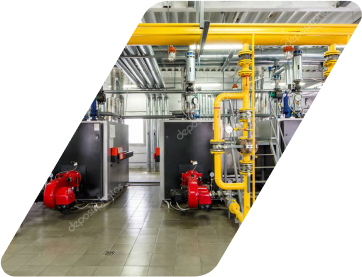
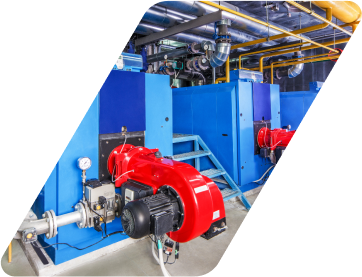
Slides

diff --git a/style.css b/style.css
@@ -4,7 +4,7 @@ Theme URI: https://gazerzekelo.hu
 Author: David Csere
 Author URI: https://thelongerway.eu
 Description: Theme for Muszer Automatika Kft.
-Version: 1.3.3
+Version: 1.3.4
 Requires at least: 5.0
 Tested up to: 6.3
 Requires PHP: 7.4

diff --git a/applications-template.php b/applications-template.php
@@ -21,11 +21,37 @@ get_header();
 
             <section class="hero featured-img-section">
                 <div class="wrap-wide">
-                    <figure>
-                        <?php the_post_thumbnail('full', array('class' => 'full-img')); ?>
-                    </figure>
+                    <div class="owl-carousel owl-theme">
+                            <?php
+                            $args = array(
+                                'post_type' => 'slides',
+                                'posts_per_page' => -1,
+                                "tax_query" => array(
+                                    array(
+                                        "taxonomy" => "megjelenesi-helyek",
+                                        "field" => "slug",
+                                        "terms" => "foa"
+                                    )
+                                )
+                            );
+                            $slides = new WP_Query($args);
+                            if ($slides->have_posts()) :
+                                while ($slides->have_posts()) : $slides->the_post(); ?>
+                                    <?php if (has_post_thumbnail()) : ?>
+                                        <img src="<?php echo get_the_post_thumbnail_url(); ?>" alt="<?php the_title(); ?>" class="full-img">
+                                    <?php endif; ?>
+                                <?php endwhile;
+                                wp_reset_postdata();
+                            endif;
+                            ?>
+    
+                    </div>
+                    <div class="nav-dots">
+                        <div class="my-dots"></div>
+                        <div class="my-nav"></div>
+                    </div>                
                 </div>
-            </section>
+            </section> 
             <section class="content-section">
                 <div class="wrap">
                     <?php the_title( '<h1 class="entry-title">', '</h1>' ); ?>

diff --git a/functions.php b/functions.php
@@ -331,6 +331,27 @@ function ma_slides_post_type() {
 
 add_action('init', 'ma_slides_post_type');
 
+function ma_slides_tag() {
+    $labels = array(
+        'name'              => 'Megjelenési helyek',
+        'singular_name'     => 'Megjelenési hely',
+    );
+
+    $args = array(
+        'hierarchical'      => false, // Ha hamis, akkor címkéként viselkedik
+        'labels'            => $labels,
+        'show_ui'           => true,
+        'show_admin_column' => true,
+        'query_var'         => true,
+        'rewrite'           => array('slug' => 'megjelenesi-helyek'),
+        'show_in_rest'       => true,
+    );
+
+    register_taxonomy('megjelenesi-helyek', array('slides'), $args);
+}
+
+add_action('init', 'ma_slides_tag');
+
 function ma_customizer_settings($wp_customize) {
 
     $wp_customize->add_section('company_contact_section', array(

diff --git a/contact-template.php b/contact-template.php
@@ -60,7 +60,7 @@ get_header();
                         <h3 class="ul-dots"><?php _e('GÁZÉRZÉKELŐ GYÁRTÁS<br> ÉS ÉRTÉKESÍTÉS', 'muszerautomatika-theme'); ?></h3>
                         <dl class="contact-list">
                             <dt><?php _e('Postacím:', 'muszerautomatika-theme'); ?></dt>
-                            <dd><?php echo apply_filters('wpml_translate_single_string', get_theme_mod('sales_address'), 'Theme Mod', 'Sales Address'); ?></dd>
+                            <dd><?php echo get_theme_mod('sales_address'); ?></dd>
                             <dt><?php _e('Szállítási cím:', 'muszerautomatika-theme'); ?></dt>
                             <dd><?php echo get_theme_mod('shipping_address'); ?></dd>
                             <dt><?php _e('Postafiók:', 'muszerautomatika-theme'); ?></dt>

diff --git a/archive-termek.php b/archive-termek.php
@@ -20,7 +20,14 @@ get_header(); ?>
                         <?php
                         $args = array(
                             'post_type' => 'slides',
-                            'posts_per_page' => -1
+                            'posts_per_page' => -1,
+                            "tax_query" => array(
+                                array(
+                                    "taxonomy" => "megjelenesi-helyek",
+                                    "field" => "slug",
+                                    "terms" => "product-archive"
+                                )
+                            )
                         );
                         $slides = new WP_Query($args);
                         if ($slides->have_posts()) :
